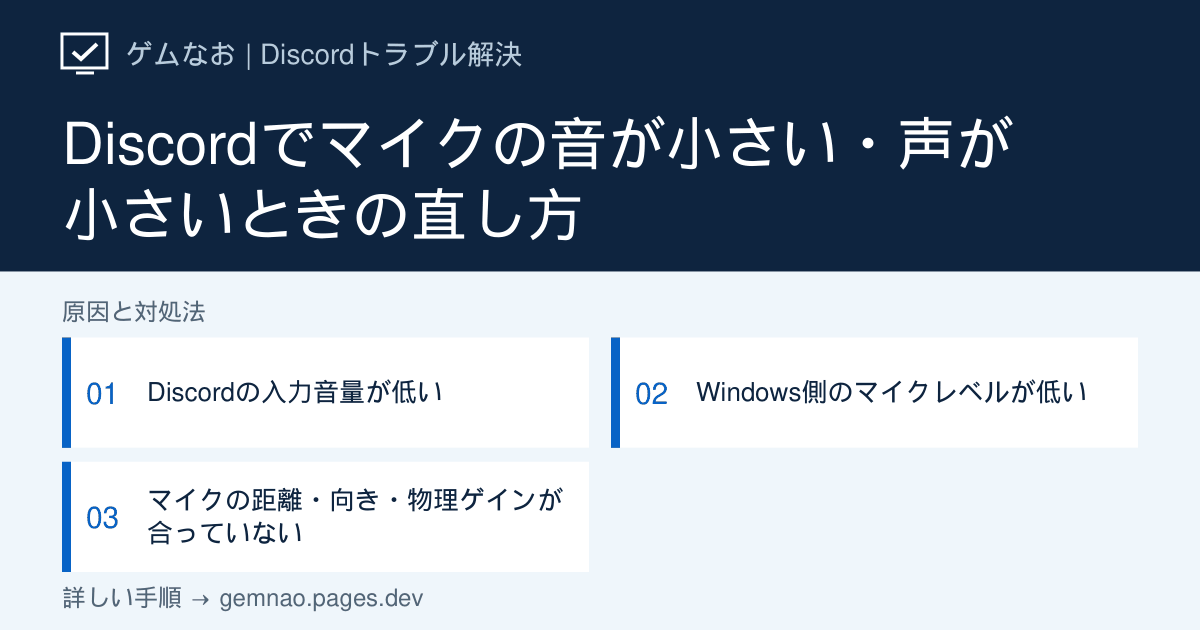
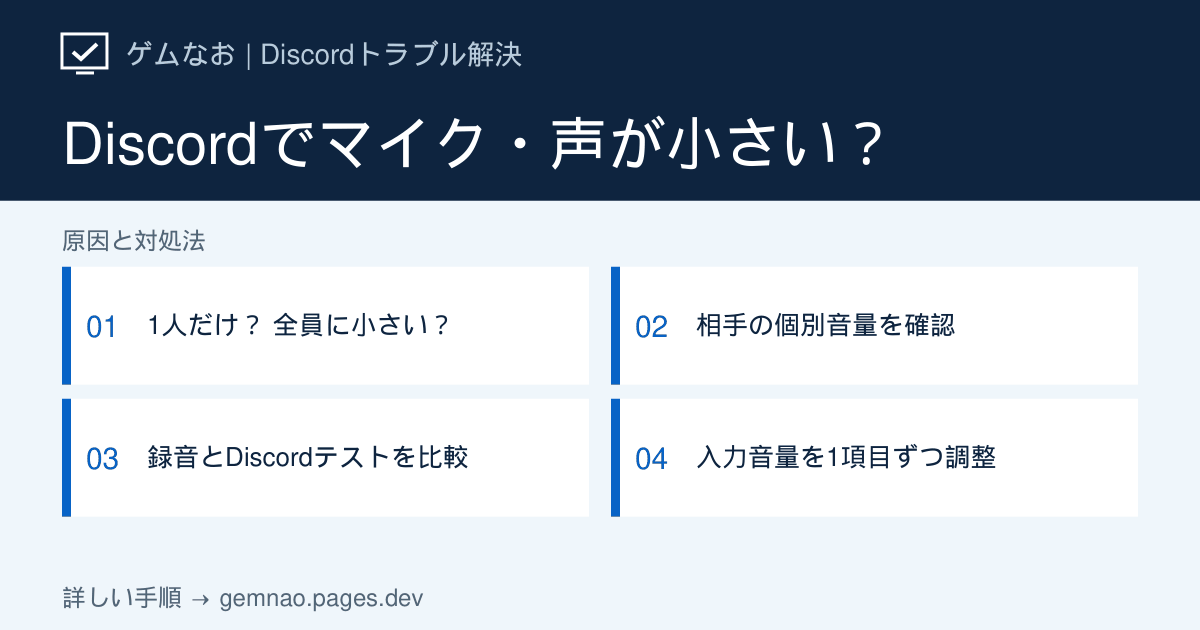
Rewrite Discord low microphone volume guide by listener and input

diff --git a/lib/discord-audio-growth-articles.ts b/lib/discord-audio-growth-articles.ts
@@ -73,25 +73,102 @@ export const discordAudioGrowthArticles: DiscordArticle[] = [
   },
   {
     slug: 'mic-volume-low', category: 'audio',
-    title: 'Discordでマイクの音が小さい・声が小さいときの直し方',
+    title: 'Discordでマイク・声が小さい時の直し方【自分と相手の設定を切り分け】',
     shortTitle: 'マイク・自分の声が小さい',
-    seoTitle: 'Discordでマイクの音・声が小さいときの直し方【Windows】',
-    metaDescription: 'Discordで自分のマイク音量が小さいと言われる場合の対処法。入力音量、Windowsのマイクレベル、距離や接続を順に確認します。',
-    symptom: 'マイクは認識されているのに相手から声が小さいと言われる、Discordのマイクテストで波形が小さい場合の手順です。',
-    target: 'Windows 11 / Windows 10版 Discordデスクトップアプリ',
-    conclusion: 'Discordの入力音量を上げてマイクテストを行い、足りなければWindows側のマイクレベルと機器の位置を確認します。',
-    quickFixes: ['Discordの入力音量を上げてマイクテストする', 'Windowsの入力音量・マイクレベルを確認する', 'マイクの距離、物理ゲイン、接続端子を確認する'],
+    seoTitle: 'Discordでマイク・声が小さい原因と直し方｜100％でも小さい場合',
+    metaDescription: 'Discordで声が小さい時は、全員に小さいか特定の相手だけかを先に確認。相手の個別音量、Windows録音、Discord入力音量を比較し、100％でも小さい場合や音割れの対処まで解説します。',
+    symptom: 'Discordで声が小さいと言われる、入力音量を上げても改善しない場合の手順です。特定の相手だけが小さく感じているのか、マイクから入る声自体が小さいのかを分けて調べます。',
+    target: 'Windows 11／Windows 10のDiscordデスクトップアプリ',
+    conclusion: 'まず別の参加者にも声の大きさを確認します。1人だけ小さいなら、その相手が自分に設定した個別音量を確認。全員に小さいなら、同じマイクでWindows録音とDiscordのマイクテストを比べ、録音から小さい場合はWindows・機器側、Discordだけ小さい場合は入力音量を調整します。',
+    quickFixes: [
+      '誰に小さく聞こえるか確認し、特定の相手だけならその人の個別音量を調べる',
+      '同じマイク・距離・文章でWindows録音とDiscordのマイクテストを比較する',
+      '該当する入力音量だけを少しずつ上げ、最後に同じ相手との通話で音割れせず届くか確認する',
+    ],
+    showStatusCheck: false,
+    diagnosisTitle: '誰に小さい？ 録音と通話で確認先を選ぶ表',
+    diagnosisIntro: '「音声チェック、今日はこの声で話します」と普段の声で話し、同じ距離で比較してください。相手が1人しかいない場合は、個別音量と自分の録音の両方を確認します。',
+    diagnosis: [
+      { symptom: '1人だけ小さいと言う／別の参加者には正常', check: 'その相手が設定した自分の個別音量を確認', causeIndex: 1 },
+      { symptom: '全員に小さい／録音ではどうか未確認', check: '同じマイクでWindows録音とDiscordテストを比較', causeIndex: 2 },
+      { symptom: 'Windows録音もDiscordも小さい', check: 'Windowsの入力音量を変えて録音し直す', causeIndex: 3 },
+      { symptom: 'Windows録音は十分／Discordだけ小さい', check: 'Discordの入力機器名と入力音量を確認', causeIndex: 4 },
+      { symptom: '入力音量100％でも小さい／上げると雑音や音割れ', check: 'マイクの位置・収音方向・機器側のゲインを確認', causeIndex: 5 },
+      { symptom: '声全体ではなく小声や語尾だけ消える', check: '音量不足と入力感度・音声処理を区別', causeIndex: 4 },
+    ],
     causes: [
-      { title: 'Discordの入力音量が低い', description: '入力デバイスは正しくても入力音量が低いと、相手には小さく届きます。', actions: ['「音声・ビデオ」で使用中の入力デバイスを選ぶ', '入力音量を少しずつ上げる', 'マイクテストで音割れしない範囲を確認する'] },
-      { title: 'Windows側のマイクレベルが低い', description: 'Discordより前段のWindows設定で音量が抑えられている場合があります。', actions: ['Windowsの「システム」→「サウンド」→「入力」を開く', '使用中のマイクを選択する', '入力音量を調整してテストする'] },
-      { title: 'マイクの距離・向き・物理ゲインが合っていない', description: 'USBマイクやオーディオインターフェースでは本体側のゲインも影響します。', actions: ['マイクの収音方向を確認する', '口元との距離を調整する', '本体ゲインを少しずつ上げ、音割れしないか確認する'] },
+      {
+        title: '特定の相手だけ小さい：聞く人が個別音量を確認',
+        description: 'Aさんの声がBさんにだけ小さく聞こえるなら、最初に操作するのはBさんです。Discordでは参加者ごとの聞こえる音量を変更できます。',
+        actions: [
+          'Aさんは同じ文章を話し、可能ならBさん以外の参加者にも聞こえ方を尋ねる',
+          'Bさんはボイスチャンネルまたは通話画面でAさんの名前・アイコンを右クリックし、ユーザーごとの音量スライダーを確認する',
+          '以前より下げていないか確認し、現在値を控えて少しずつ上げる。Aさんに同じ文章を話してもらい、聞き取りやすくなったか確認する',
+          'Bさんが全員の声を小さく感じるなら、BさんのDiscord「音声・ビデオ」の出力音量、Windowsの音量ミキサー、ヘッドセット本体の音量を順に確認する',
+        ],
+        note: '相手側の個別音量を直して解決したら、自分のマイク入力を追加で上げる必要はありません。',
+      },
+      {
+        title: '全員に小さい：録音・マイクテスト・通話を比較',
+        description: '別のマイクを比較しないよう、WindowsとDiscordで入力機器名をそろえます。再生音量が違うと判断を誤るため、同じイヤホンで再生音量を固定して聞いてください。',
+        actions: [
+          'Windowsの「設定 → システム → サウンド → 入力」でマイク名を確認する。Discord左下の歯車 →「音声・ビデオ」の入力デバイスにも同じ機器を選ぶ',
+          'スタートから「サウンド レコーダー」（Windows 10では「ボイス レコーダー」）を開き、使用マイクを確認。同じ文章を普段の声で録音して再生する',
+          'Discordの「音声・ビデオ」でマイクテストを開始し、同じ距離・文章で確認する。テスト終了後に通話で相手にも聞いてもらう',
+          '録音から小さいなら手順3へ。録音は十分なのにDiscordだけ小さいなら手順4へ。どちらも十分なら聞く相手側の手順1も再確認する',
+        ],
+        note: '録音アプリとDiscordは処理が異なり、厳密な音量測定ではありません。テスト結果だけで確定せず、最後は同じ相手との通話で確かめます。',
+      },
+      {
+        title: 'Windows録音から小さい：入力音量を調整する',
+        description: 'Windowsの入力音量と、聞く側のスピーカー音量は別です。入力音量を変えた後は新しく録音して、変更前の音と比べます。',
+        actions: [
+          'Windows 11は「設定 → システム → サウンド → 入力」で使用マイクを開き、入力音量の現在値を控える',
+          '入力音量を少しずつ上げる。例えば50から60へ変えたら同じ文章を録音し直す。この数値は操作例であり、すべての機器への推奨値ではない',
+          '入力設定に「テストの開始」「テストの停止」「再生」があれば利用する。再生項目がなければ手順2の録音アプリで比較する',
+          'Windows 10などで同じ画面がない場合は、Windows＋R →「mmsys.cpl」→「録音」→使用マイクの「プロパティ」→「レベル」を確認する。表示される調整項目は機器によって異なる',
+          '声が聞き取りやすくなり、強めに話しても割れない設定でDiscord通話を試す。最大でも小さい、雑音だけ増える場合は手順5へ進む',
+        ],
+      },
+      {
+        title: 'Discordだけ小さい：入力音量と音声処理を比較',
+        description: '入力音量は相手へ送る自分の声、出力音量は自分が聞く相手の声の大きさです。自分の声を大きくするために調整するのは入力側です。',
+        actions: [
+          'Discord左下の歯車 →「音声・ビデオ」→音声設定で、入力デバイスを「既定」任せにせず使用マイク名で選ぶ',
+          '入力音量を少しずつ上げ、マイクテストで普段の声と少し強い声を比較する。ざらつく・割れる場合は上げる前へ戻す',
+          'テストを中止してから同じ相手に同じ文章を聞いてもらう。相手の個別音量と自分の入力音量を同時に変えず、1項目ごとに結果を確認する',
+          '入力音量で変わらなければ、ノイズ抑制や自動ゲイン制御が表示される場合に現在値を控え、1項目ずつ変更して比較する。改善しなければ元に戻す',
+          '声全体の小ささではなく、語尾や小声だけ消えるなら入力感度・音声処理の可能性もある。関連記事「音声・マイク・語尾が途切れる」の比較手順へ進む',
+        ],
+        note: '入力感度は声を何倍にも大きくする設定ではありません。小さな音を送信するかの判定と、入力音量を区別してください。',
+      },
+      {
+        title: '100％でも小さい：位置・機器のゲイン・接続を確認',
+        description: '機器側のゲインは、マイクからの信号を増幅する調整です。ソフトの音量だけを最大にする前に、使っているマイクと位置を確認します。',
+        actions: [
+          'WebカメラやノートPCの内蔵マイクを誤って選んでいないか機器名を再確認する。マイクの説明書で収音面を調べ、同じ向きのまま少し口元へ近づけて録音し直す',
+          'USBマイクやオーディオインターフェースにマイクゲインがあれば現在位置を控え、少しずつ上げる。ヘッドホン音量のつまみと取り違えない',
+          '「マイクブースト」が表示される機器では1段階だけ変更して録音する。声と一緒に雑音が増える、強い声で割れる場合は戻す。項目がない機器もある',
+          'USBマイクは別のUSB端子へ直接接続して比較する。別マイクを使えるなら同じ文章を録音し、元の機器だけ小さいか確認する',
+          '別マイクでは正常なら元の機器・ケーブル・専用ソフトの設定を確認する。複数のマイクで同じならWindowsの入力選択と設定を再確認する',
+        ],
+      },
     ],
-    ifNotFixed: 'Windowsのボイスレコーダーでも小さい場合は機器・ドライバー側です。Discordだけ小さい場合は音声設定をリセットし、入力デバイスを選び直してください。',
+    ifNotFixed: '「誰に小さいか」「Windows録音とDiscordテストの結果」「選択した入力機器名」「入力音量の変更前後」「音割れ・雑音の有無」を控えてください。音声設定のリセットを試す場合は、入力／出力機器・音量・キー割り当てを記録してから実行し、同じ条件で通話を比較します。',
     faqs: [
-      { question: '入力音量を100%にしても小さい場合は？', answer: 'Windows側の入力音量、マイク本体のゲイン、接続端子を確認します。別の録音アプリでも小さいか比較すると切り分けできます。' },
-      { question: 'マイクブーストは上げても大丈夫ですか？', answer: 'ノイズや音割れも増えるため、必要な場合だけ少しずつ上げ、録音を聞きながら調整してください。' },
+      { question: '入力音量を100％にしても声が小さいのはなぜですか？', answer: '機器の選択違い、マイクの距離や向き、Windows側の入力レベル、機器側のゲインなどが関係します。Windows録音から小さいかを先に確かめ、100％という数値だけで故障とは判断しないでください。' },
+      { question: '相手の音量を200％にしてもらえば解決ですか？', answer: '一時的に聞き取りやすくなる場合はありますが、元の録音が小さい原因は残ります。1人だけ小さいなら個別音量を確認し、全員に小さいなら自分の入力側を調べます。' },
+      { question: '入力感度を下げれば声は大きくなりますか？', answer: '入力感度は音声を送るかどうかの境界です。声全体の音量を上げる入力音量とは違います。語尾が消える場合は感度を、ずっと小さい場合は入力音量や機器のゲインを確認します。' },
+      { question: 'マイクテストでは大きく聞こえるのに相手には小さいと言われます', answer: 'テストの聞こえ方には自分の再生音量も影響します。テストを終了して実際の通話で確認し、特定の相手だけならその人の個別音量と出力側も比べてください。' },
     ],
-    sources: [micTest, voiceGuide], related: ['mic-not-working', 'audio-input-not-found', 'voice-cutting-out'], checkedAt: '2026-09-19', status: 'verified',
+    sources: [micTest, voiceGuide,
+      { label: 'Microsoft公式：Windowsでマイクを設定・テストする（英語）', url: 'https://support.microsoft.com/en-us/windows/hardware/drivers/how-to-set-up-and-test-microphones-in-windows' },
+      { label: 'Microsoft公式：マイクの音量・ブーストなどの問題を修正する（英語）', url: 'https://support.microsoft.com/en-us/windows/hardware/drivers/fix-microphone-problems' },
+    ],
+    related: ['voice-cutting-out', 'mic-not-working', 'audio-input-not-found', 'cant-hear-voice'],
+    checkedAt: '2026-09-28', status: 'verified',
+    ogTitle: 'Discordでマイク・声が小さい？',
+    ogSteps: ['1人だけ？ 全員に小さい？', '相手の個別音量を確認', '録音とDiscordテストを比較', '入力音量を1項目ずつ調整'],
   },
   {
     slug: 'call-disconnects', category: 'connection',

diff --git a/lib/og-image-manifest.ts b/lib/og-image-manifest.ts
@@ -19,7 +19,7 @@ export const ogImageManifest: Record<string, string> = {
   "/discord/loading-stuck": "c18e0bfc",
   "/discord/login-error": "9a75aebd",
   "/discord/mic-not-working": "230d5d46",
-  "/discord/mic-volume-low": "9eec1c00",
+  "/discord/mic-volume-low": "148725ee",
   "/discord/no-route": "7419f17d",
   "/discord/not-opening": "6ef5ed70",
   "/discord/notifications-not-working": "4ab41adc",
